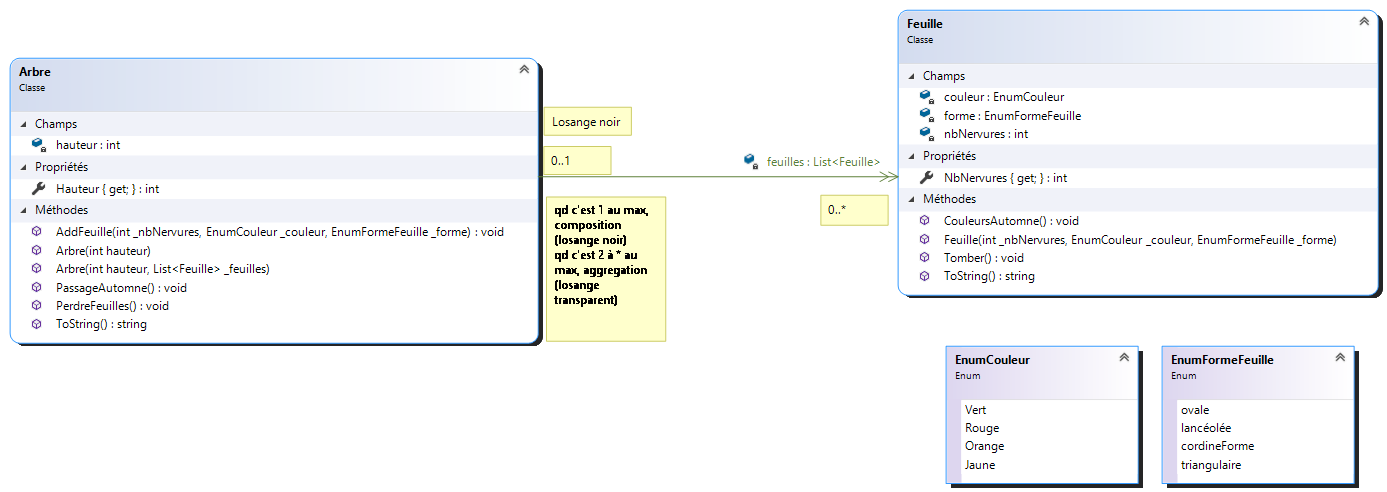
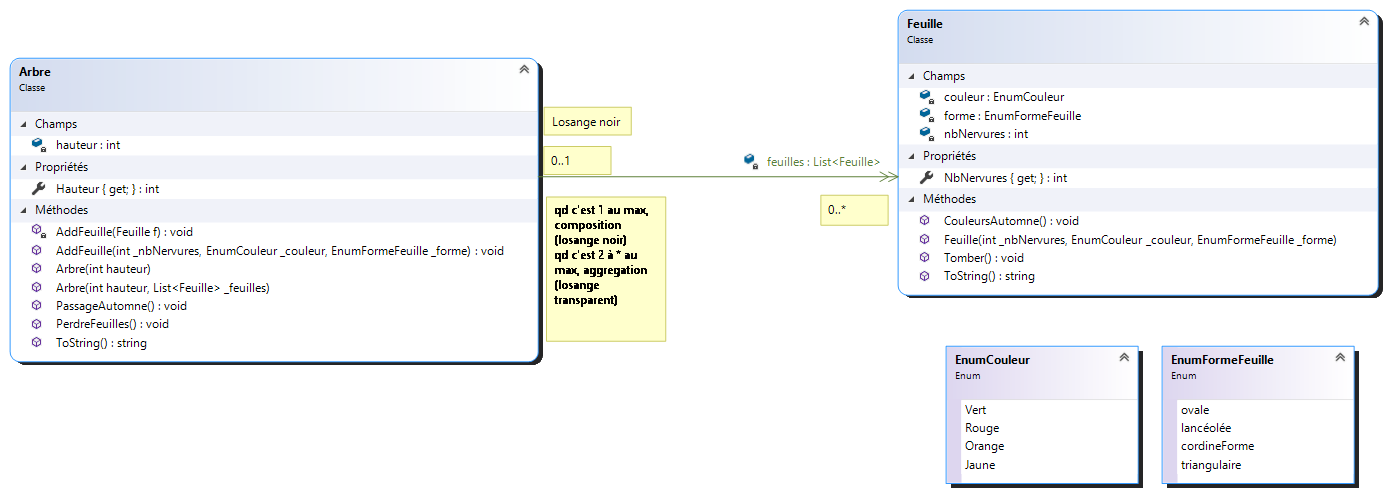
Foret arbre feuille fix composition

Changed region(s): [[0.0, 0.4573, 0.403, 0.7622], [0.0, 0.4573, 0.031, 0.4878]]

diff --git a/FOAD_C#/Foret/ClassLibraryForet/Arbre.cs b/FOAD_C#/Foret/ClassLibraryForet/Arbre.cs
@@ -23,9 +23,14 @@ namespace ClassLibraryForet
             feuilles = _feuilles;
         }
 
+        private void AddFeuille(Feuille f)
+        {
+            this.feuilles.Add(f);
+        }
+
         public void AddFeuille(int _nbNervures, EnumCouleur _couleur, EnumFormeFeuille _forme)
         {
-            this.feuilles.Add(new Feuille(_nbNervures, _couleur, _forme));
+            this.AddFeuille(new Feuille(_nbNervures, _couleur, _forme));
         }
 
         public int Hauteur
